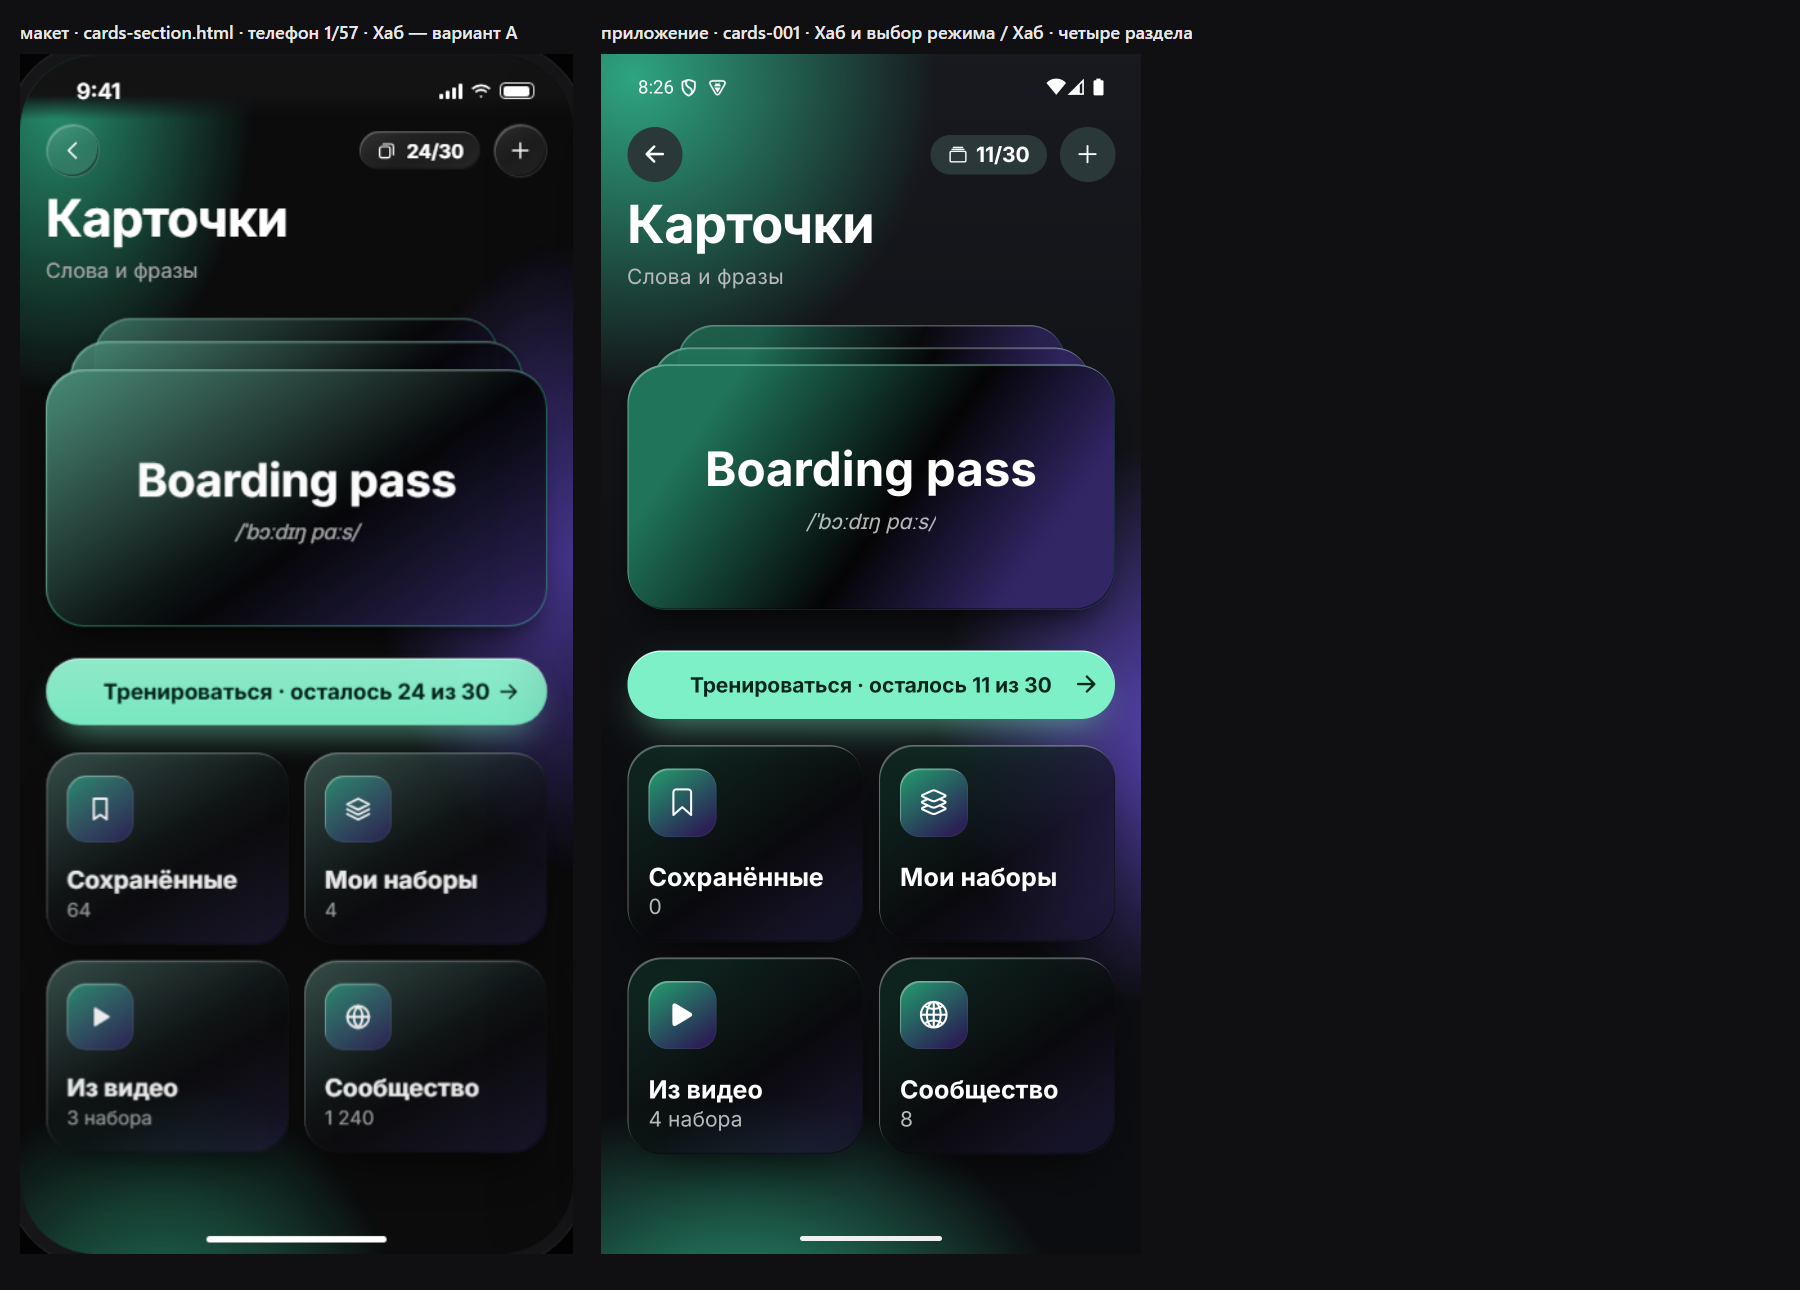
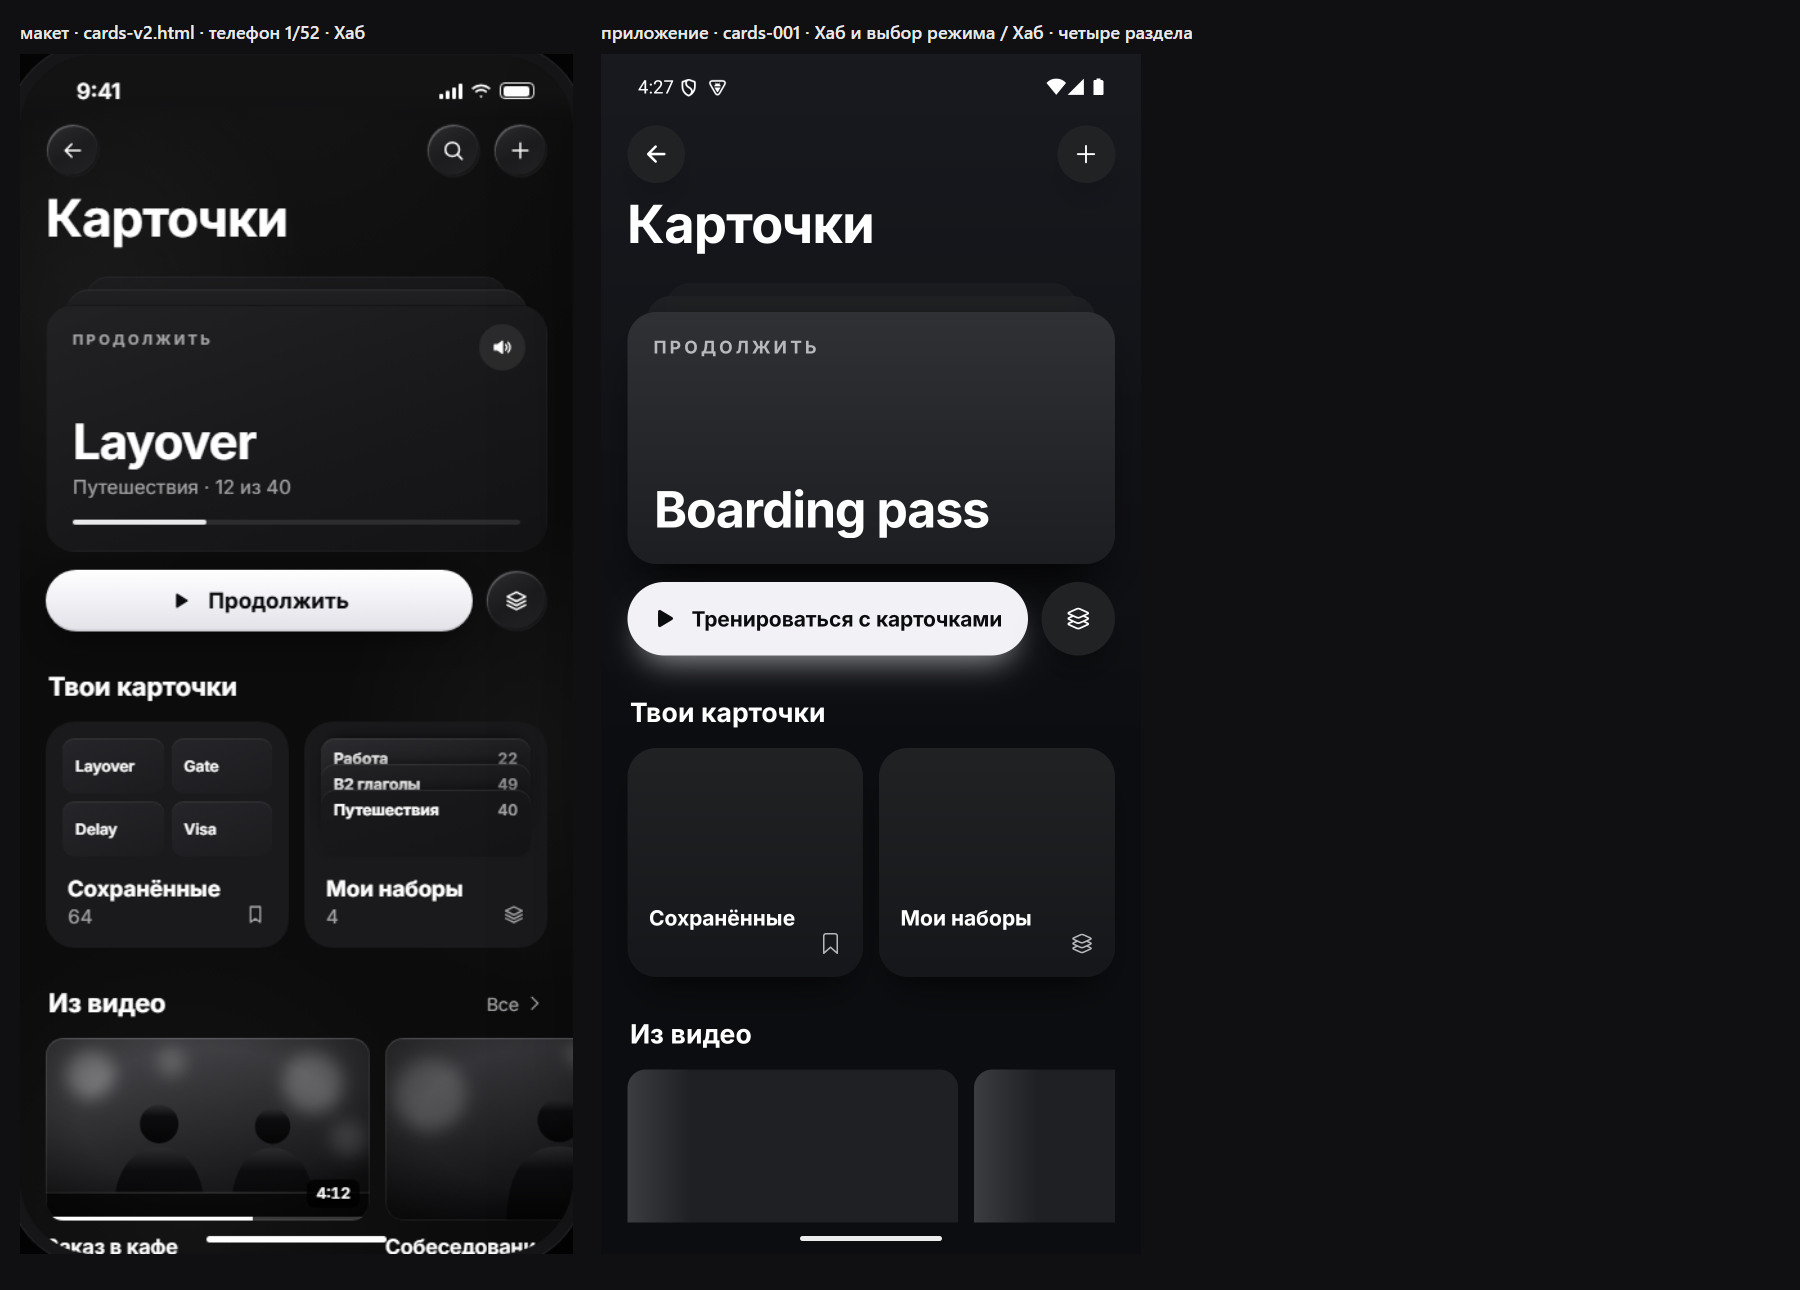
docs(parity): cards-001 снят — diff с поэлементным списком

diff --git a/docs/phraseman-2.0/INBOX_COORDINATOR_FROM_SVERKA.md b/docs/phraseman-2.0/INBOX_COORDINATOR_FROM_SVERKA.md
@@ -930,3 +930,7 @@ adb жив, сборщик :8081 running. Ссылка `phraseman://dev_state?on
 
 ## Эмулятор снова пропал (11.10, ~19:30)
 После pm clear приложение загружалось (заставка), на хабе Карточек пока кадра нет. Через ~5 мин: `adb devices` пусто (emulator-5554 not found), :8081/status без ответа. Эмулятор и сборщик упали/остановлены. Съёмка очереди (6 устаревших match → Шпиль → 87 → Карточки → gap) не начата. Жду «Эмулятор запущен» от координатора; как только поднимут — стартую сразу с cards-001.
+
+## ПЕРВЫЙ настоящий снимок очереди: cards-001 (хаб Карточек) — diff (11.10, ~20:35)
+Склейка: evidence/parity/cards-001.png (макет cards-v2 кадр 1 | эмулятор, свежий бандл, гость). Поэлементно: нет кнопки поиска в шапке; в карточке «Продолжить» нет динамика, подписи «Путешествия · 12 из 40» и полосы (слово «Boarding pass»); кнопка «Тренироваться с карточками» вместо «Продолжить»; плитки «Сохранённые/Мои наборы» без превью и счётчиков; «Из видео» без «Все ›» и с пустыми серыми заглушками вместо карточек роликов. Совпало: заголовок, «Твои карточки», «Из видео», фон, скругления. Адрес: Дизайн (часть — данные гостя; нужна фикстура Ядра с наполненным аккаунтом).
+Практика съёмки: после перезапуска приложение грузится 3–6 мин (эмулятор 2 ГБ ОЗУ), пустые/белые кадры нельзя засчитывать; сделала автоснимок (ждёт тексты экрана через uiautomator) — C:/Temp/claude/sv/home_then.sh.
